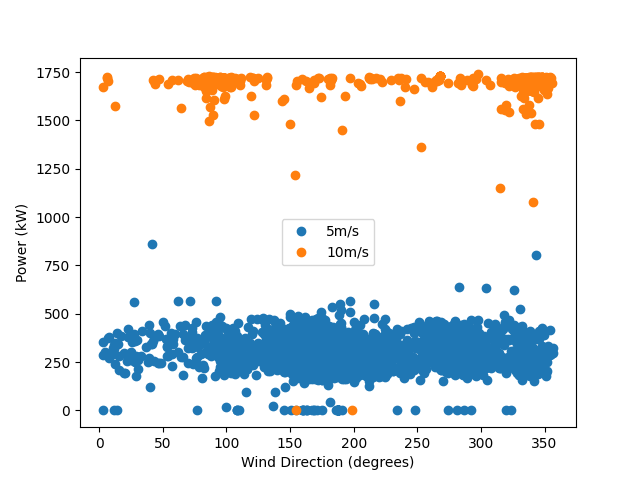
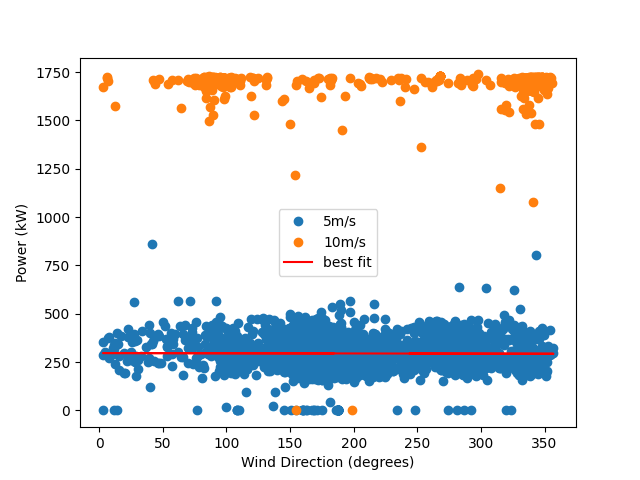
Plot line of best fit.

diff --git a/plots.py b/plots.py
@@ -5,6 +5,7 @@ from statsmodels.tsa.stattools import adfuller
 from sklearn.feature_selection import r_regression
 from statsmodels.tsa.seasonal import seasonal_decompose
 import missingno
+from numpy import polyfit, poly1d
 
 data = pd.read_csv("Cleaned_data.csv")
 raw_data = pd.read_csv("Turbine_Data.csv")
@@ -53,10 +54,15 @@ for i in range(len(windspeeds)):
     else:
         continue
 
-plt.plot([x["Wind direction"] for x in results if x["Wind speed"]==5],
+X_5ms = [x["Wind direction"] for x in results if x["Wind speed"]==5]
+Y_5ms = [x["Power"] for x in results if x["Wind speed"]==5]
+plt.plot(X_5ms,
             [x["Power"] for x in results if x["Wind speed"]==5], 'o', label="5m/s")
 plt.plot([x["Wind direction"] for x in results if x["Wind speed"]==10],
             [x["Power"] for x in results if x["Wind speed"]==10], 'o', label="10m/s")
+best_fit = polyfit(X_5ms, Y_5ms, 1)
+best_fit_model = poly1d(best_fit)
+plt.plot(X_5ms, [best_fit_model(x) for x in X_5ms], 'r', label="best fit")
 plt.xlabel("Wind Direction (degrees)")
 plt.ylabel("Power (kW)")
 plt.legend()
